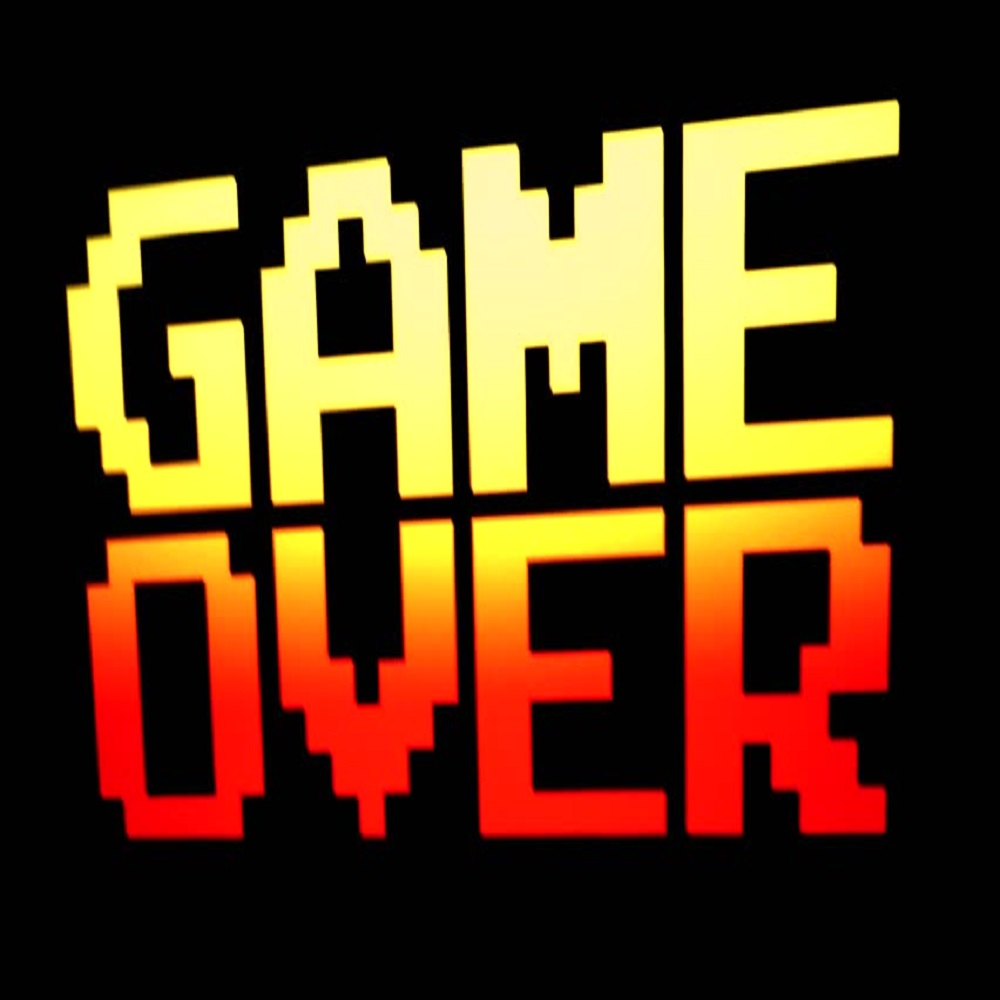
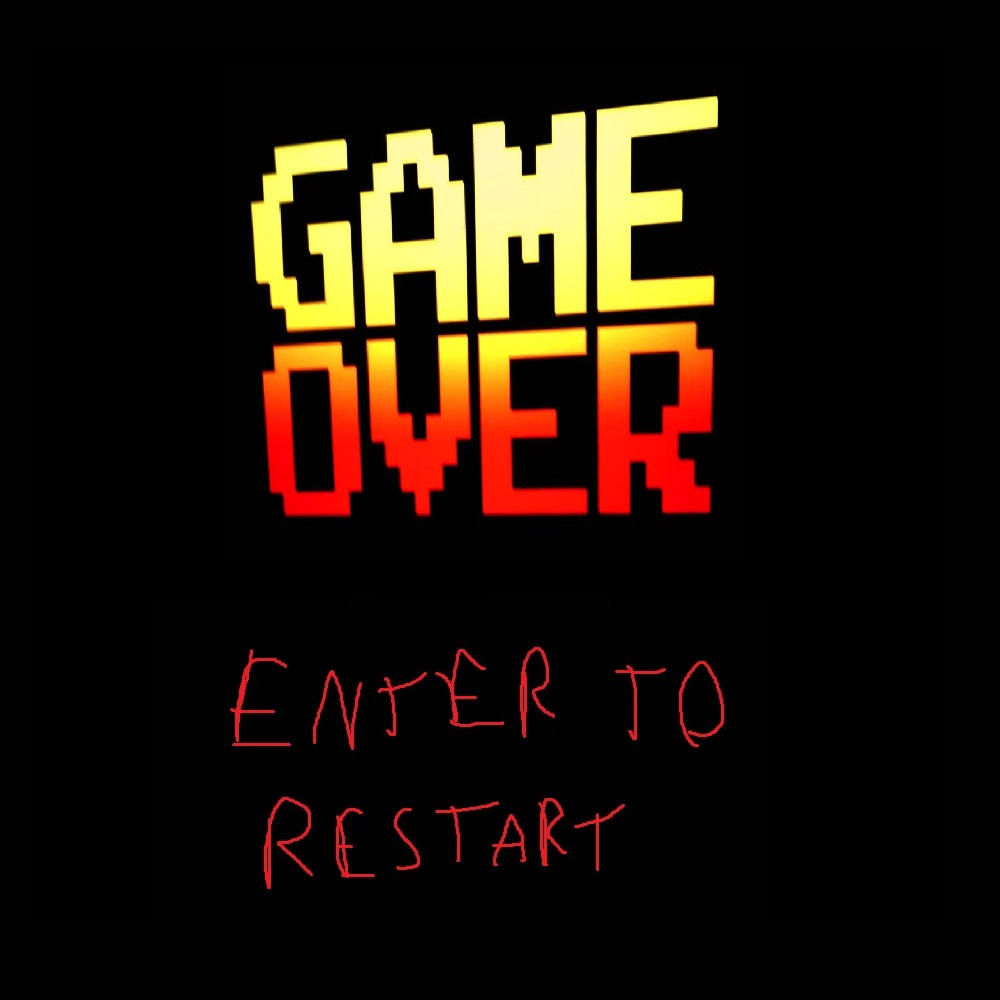
lasts updates
holis

diff --git a/js/sketch.js b/js/sketch.js
@@ -5,15 +5,18 @@ let start = false;
 let row = 1;
 let victory = false;
 let lost = false;
+let pause = false;
 
 function preload(){
 	fin = loadImage("assets/img/fin.png");
 	fondo = loadImage("assets/img/fondo.png");
 	naveImg = loadImage("assets/img/nave.png");
 	inicio = loadImage("assets/img/inicio.png");
+	yamete = loadImage("assets/img/yamete.png");
 	alienImg = loadImage("assets/img/enemigo1.png");
 	victoria = loadImage("assets/img/victoria.png");
 	alien2Img = loadImage("assets/img/enemigo2.png");
+	alien3Img = loadImage("assets/img/enemigo3.png");
 	disparoImg = loadImage("assets/img/disparo.png");
 	disparo2Img = loadImage("assets/img/disparo2.png");
 	naveLaser = loadSound('assets/sounds/navelaser.mp3');
@@ -26,7 +29,7 @@ function preload(){
 
 function setup() {
 	createCanvas(windowWidth/1.6, windowHeight);
-	flota = new Flota(0, 80, alienImg, alien2Img);
+	flota = new Flota(0, 80, alienImg, alien2Img, alien3Img);
 	nave = new Nave(40, 40, width/2, height-20, naveImg, flota.flota);
 	flota.crearFlota(nave, row);
 	row++;
@@ -43,29 +46,34 @@ function draw() {
 	if(start){
 		if(!victory && !lost)
 		{
-			if(!fondoSound.isPlaying()){
-			  fondoSound.play();
+			if(pause){
+				if(!fondoSound.isPlaying()){
+				  fondoSound.play();
+				}
+				background(fondo);
+				textSize(40);
+				fill("white");
+				text(nave.vida, 10, 50);
+				for(let i = 0; i < nave.vida; i++)
+					image(naveImg, 50*(i+1), 20, 30, 30);
+				text("SCORE: "+nave.score, width-270, 50);
+				stroke("white");
+				line(0, 70, width, 70);
+				nave.display();
+				flota.display();
+				if(flota.rest() == 0){
+					flota.crearFlota(nave,row);
+					row++;
+					if(row > 4)
+						victory = true;
+				}
+				if(nave.vida <= 0)
+					lost = true;
+				move();
 			}
-			background(fondo);
-			textSize(40);
-			fill("white");
-			text(nave.vida, 10, 50);
-			for(let i = 0; i < nave.vida; i++)
-				image(naveImg, 50*(i+1), 20, 30, 30);
-			text("SCORE: "+nave.score, width-270, 50);
-			stroke("white");
-			line(0, 70, width, 70);
-			nave.display();
-			flota.display();
-			if(flota.rest() == 0){
-				flota.crearFlota(nave,row);
-				row++;
-				if(row > 3)
-					victory = true;
+			else{
+				background(yamete)
 			}
-			if(nave.vida <= 0)
-				lost = true;
-			move();
 		}
 		else{
 			fondoSound.stop();
@@ -98,12 +106,40 @@ function move(){
 }
 
 function keyPressed(){
-	if(start && !victory && !lost)
+	if(start && !victory && !lost && pause)
 		if (keyCode === 32){
 			nave.disparo(new Disparo(40, 40, nave.x, nave.y-nave.h, disparoImg, -10));
 			naveLaser.play();
 		}
 
 	if(keyIsDown(ENTER))
-		start = !start;
+		start = true;
+
+	if(keyIsDown(ENTER) && start){
+		pause = !pause;
+		if(!fondoSound.isPlaying()){
+		  fondoSound.play();
+		}
+		else{
+			fondoSound.stop();
+		}
+	}
+
+	if(keyIsDown(ENTER) && (lost || victory))
+		restart();
+}
+
+function restart(){
+	nave.vida = 3;
+	nave.score = 0;
+	row = 1;
+	flota.restart();
+	flota.crearFlota(nave, row);
+	row++;
+	lost = false;
+	victory = false;
+	start = false;
+	fondoSound.stop();
+	lostSound.stop();
+	victoriaSound.stop();
 }

diff --git a/js/Flota.js b/js/Flota.js
@@ -1,6 +1,6 @@
 class Flota{
 
-	constructor(x, y, c, c2){
+	constructor(x, y, c, c2 , c3){
 		this.x = x;
 		this.y = y;
 		this.w = 40;
@@ -8,10 +8,11 @@ class Flota{
 		this.flota = [];
 		this.c = c;
 		this.c2 = c2;
+		this.c3 = c3;
 		this.speed = 3;
 		this.nave;
 		this.totalAliens = 0;
-		this.bps = 2;
+		this.bps = 1;
 	}
 
 	display(){
@@ -25,13 +26,15 @@ class Flota{
 	}
 
 	move(){
+		let palanca = false;
 		for (let linea of this.flota){
 			for (let alien of linea){
 				if(alien.x+alien.w > width || alien.x < 0){
-					this.down();
+					palanca = true;
 				}
 			}
 		}
+		if(palanca)this.down();
 	}
 
 	down(){
@@ -48,7 +51,7 @@ class Flota{
 		for (let i = 0; i < 2*row; i++){
 			let array = [];
 			for (let j = 0; j < 10; j++){
-				array.push(new Alien(this.w, this.h, this.x+(j)*this.w, this.y+(i)*this.h, i>1?this.c2:this.c, this.speed, nave, this.bps));
+				array.push(new Alien(this.w, this.h, this.x+(j)*this.w, this.y+(i)*this.h, i>1?i>3?this.c3:this.c2:this.c, this.speed, nave, this.bps));
 				this.totalAliens++;
 			}
 			this.flota.push(array);
@@ -65,11 +68,11 @@ class Flota{
 	
 		if(aliensRest < this.totalAliens/2){
 			this.speed = 3;
-			this.bps = 3;
+			this.bps = 2;
 		}
 		if(aliensRest < this.totalAliens/3){
 			this.speed = 5;
-			this.bps = 6;
+			this.bps = 4;
 		}
 	}
 
@@ -80,6 +83,14 @@ class Flota{
 			aliensRest += linea.length;
 		}
 		return aliensRest;
+	}
+
+	restart(){
+		for (let i = 0; i < 20; i++){
+			this.flota.pop();
+		}
+		this.bps = 1;
+		this.speed = 3;
 	}
 
 }
